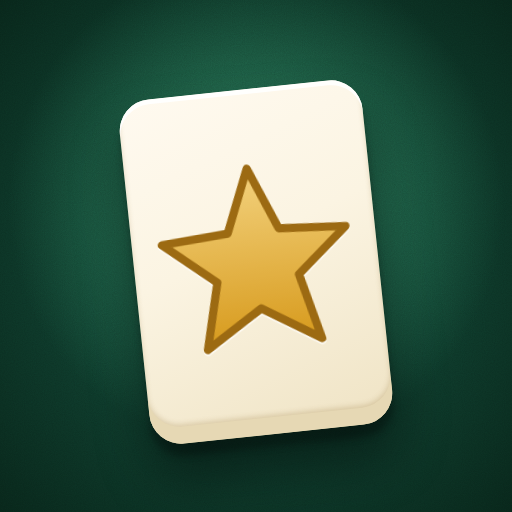
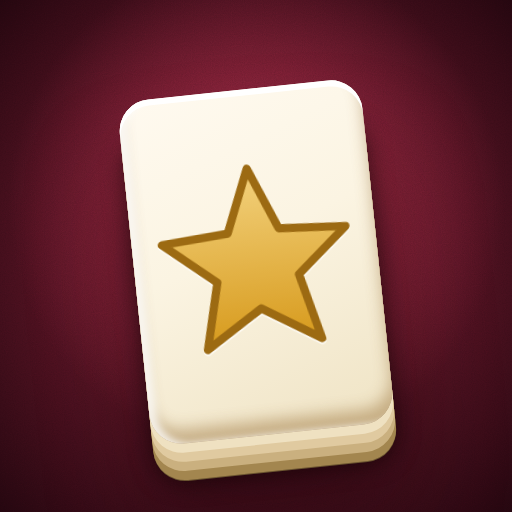
Mağaza görselleri: Osmanlı Konağı renkleri ve bakalit taş

diff --git a/docs/magaza/kaynak/ortak.css b/docs/magaza/kaynak/ortak.css
@@ -6,18 +6,20 @@
 @font-face { font-family: 'Nunito'; font-weight: 900; src: url(fonts/nunito-latin-900-normal.woff2) format('woff2'); unicode-range: U+0000-00FF, U+0131, U+0152-0153, U+02BB-02BC, U+02C6, U+02DA, U+02DC, U+2000-206F, U+20AC, U+2122, U+2191, U+2193, U+2212, U+2215, U+FEFF, U+FFFD; }
 @font-face { font-family: 'Nunito'; font-weight: 900; src: url(fonts/nunito-latin-ext-900-normal.woff2) format('woff2'); unicode-range: U+0100-02BA, U+02BD-02C5, U+02C7-02CC, U+02CE-02D7, U+02DD-02FF, U+1E00-1EFF, U+2020, U+20A0-20AB, U+20AD-20C0, U+2C60-2C7F, U+A720-A7FF; }
 
+@font-face { font-family: 'Oswald'; font-weight: 700; src: url(fonts/oswald-latin-700-normal.woff2) format('woff2'); }
+
 :root {
-  --cuha: #0f3d2e;
-  --cuha-acik: #1a5a43;
-  --cuha-koyu: #082419;
+  --cuha: #5c1526;
+  --cuha-acik: #8a2a3c;
+  --cuha-koyu: #22060e;
   --altin: #e8c26a;
   --altin-koyu: #b8923e;
   --krem: #fbf4e2;
   --krem-golge: #e6d8b4;
-  --kirmizi: #c8312b;
-  --sari: #e0a020;
-  --mavi: #1f5fbf;
-  --siyah: #1d1d1d;
+  --kirmizi: #b5122c;
+  --sari: #cf7400;
+  --mavi: #1446b8;
+  --siyah: #1a1a20;
   --ahsap: #6b3f1f;
 }
 
@@ -30,7 +32,7 @@ body { font-family: 'Nunito', system-ui, sans-serif; -webkit-font-smoothing: ant
 .cuha {
   position: absolute; inset: 0; overflow: hidden;
   background:
-    radial-gradient(ellipse 70% 80% at 62% 45%, rgba(46,130,95,.55), rgba(15,61,46,0) 70%),
+    radial-gradient(ellipse 70% 80% at 62% 45%, rgba(150,42,66,.55), rgba(92,21,38,0) 70%),
     radial-gradient(ellipse 120% 120% at 50% 50%, var(--cuha) 30%, var(--cuha-koyu) 100%);
 }
 /* İnce kumaş dokusu (SVG gürültü) */
@@ -46,24 +48,28 @@ body { font-family: 'Nunito', system-ui, sans-serif; -webkit-font-smoothing: ant
   width: var(--g); height: calc(var(--g) * 1.42);
   border-radius: calc(var(--g) * .13);
   background: linear-gradient(160deg, #fffaf0 0%, var(--krem) 45%, #efe3c4 100%);
+  --t: calc(var(--g) * .15);       /* kalın bakalit yan yüzü */
   box-shadow:
-    inset 0 calc(var(--g) * .02) 0 rgba(255,255,255,.9),
-    inset 0 calc(var(--g) * -.07) 0 var(--krem-golge),
-    inset 0 calc(var(--g) * -.08) calc(var(--g)*.02) rgba(150,120,60,.25),
-    0 calc(var(--g) * .05) calc(var(--g) * .03) rgba(0,0,0,.28),
-    0 calc(var(--g) * .14) calc(var(--g) * .22) rgba(0,0,0,.45);
+    inset 0 calc(var(--g) * .025) 0 #fff,
+    inset calc(var(--g) * .03) 0 calc(var(--g) * .03) rgba(255,255,255,.75),
+    inset 0 calc(var(--g) * -.06) calc(var(--g) * .06) rgba(140,98,38,.42),
+    0 calc(var(--t) * .25) 0 #efe1c1, 0 calc(var(--t) * .5) 0 #e0caa0,
+    0 calc(var(--t) * .75) 0 #cab07f, 0 var(--t) 0 #a3864f,
+    0 calc(var(--t) + 1px) 0 #6a5430,
+    0 calc(var(--t) + 2px) calc(var(--t) * .6) rgba(10,0,4,.6),
+    0 calc(var(--t) * 2.2) calc(var(--t) * 2.6) rgba(20,0,6,.5);
   display: flex; flex-direction: column; align-items: center; justify-content: flex-start;
-  padding-top: calc(var(--g) * .16);
+  padding-top: calc(var(--g) * .12);
 }
 .tas .rakam {
-  font-weight: 900; line-height: 1;
-  font-size: calc(var(--g) * .72);
-  letter-spacing: calc(var(--g) * -.03);
+  font-family: 'Oswald', sans-serif; font-weight: 700; line-height: 1;
+  font-size: calc(var(--g) * .74);
+  letter-spacing: 0;
   text-shadow: 0 calc(var(--g)*.012) 0 rgba(255,255,255,.7);
 }
 .tas .nokta {
   width: calc(var(--g) * .17); height: calc(var(--g) * .17); border-radius: 50%;
-  margin-top: calc(var(--g) * .07);
+  margin-top: calc(var(--g) * .13);
 }
 .tas.kirmizi { color: var(--kirmizi); } .tas.kirmizi .nokta { background: var(--kirmizi); }
 .tas.sari    { color: var(--sari); }    .tas.sari .nokta    { background: var(--sari); }

diff --git a/docs/magaza/kaynak/acilis.html b/docs/magaza/kaynak/acilis.html
@@ -1,0 +1,17 @@
+<!doctype html><html><head><meta charset="utf-8"><link rel="stylesheet" href="ortak.css">
+<style>
+ body{width:100vw;height:100vh;overflow:hidden}
+ .sahne{position:absolute;inset:0;display:flex;flex-direction:column;align-items:center;justify-content:center;gap:calc(var(--o)*.09)}
+ .tas{position:relative;--g:calc(var(--o)*.17);transform:rotate(-6deg)}
+ .yildiz{position:absolute;top:4%;right:4%;width:30%}
+ h1{font-weight:900;font-size:calc(var(--o)*.085);color:var(--krem);margin-top:calc(var(--o)*.05);letter-spacing:-.01em}
+ h1 b{color:var(--altin)}
+</style></head><body>
+<div class="cuha"></div>
+<div class="sahne">
+ <div class="tas kirmizi"><span class="rakam">1</span><span class="nokta"></span>
+  <svg class="yildiz" viewBox="0 0 100 100"><path d="M50 6 L62.5 36.5 L95 38.8 L70 59.8 L78 92 L50 74.5 L22 92 L30 59.8 L5 38.8 L37.5 36.5 Z" fill="#e6b24a" stroke="#9a6614" stroke-width="5" stroke-linejoin="round"/></svg></div>
+ <h1>Okey <b>Salonu</b></h1>
+</div>
+<script>const o=Math.min(innerWidth,innerHeight);document.documentElement.style.setProperty('--o',o+'px');</script>
+</body></html>

diff --git a/docs/magaza/kaynak/one-cikan-gorsel.html b/docs/magaza/kaynak/one-cikan-gorsel.html
@@ -27,7 +27,7 @@
   h1 span { color: var(--altin); }
   .cizgi { width: 120px; height: 5px; border-radius: 3px; margin: 20px 0 18px;
     background: linear-gradient(90deg, var(--altin), var(--altin-koyu)); }
-  .slogan { font-weight: 800; font-size: 31px; line-height: 1.2; color: #e9f2ec; text-shadow: 0 2px 10px rgba(0,0,0,.4); }
+  .slogan { font-weight: 800; font-size: 31px; line-height: 1.2; color: #f8ecd6; text-shadow: 0 2px 10px rgba(0,0,0,.4); }
 
   /* Taş yelpazesi */
   .yelpaze { position: absolute; left: 734px; top: 318px; width: 0; height: 0; z-index: 3; }

diff --git a/docs/magaza/kaynak/simge.html b/docs/magaza/kaynak/simge.html
@@ -9,7 +9,7 @@
   html, body { width: 512px; height: 512px; overflow: hidden; }
   .sahne { position: relative; width: 512px; height: 512px; overflow: hidden; }
   .cuha { background:
-    radial-gradient(circle at 50% 40%, rgba(52,140,102,.75), rgba(15,61,46,0) 62%),
+    radial-gradient(circle at 50% 40%, rgba(170,48,74,.75), rgba(92,21,38,0) 62%),
     radial-gradient(circle at 50% 50%, var(--cuha) 40%, var(--cuha-koyu) 100%); }
   .tas { --g: 244px; left: calc(256px - var(--g)/2); top: calc(262px - var(--g)*.71);
     transform: rotate(-6deg); }

diff --git a/docs/magaza/README.md b/docs/magaza/README.md
@@ -28,7 +28,7 @@ bash docs/magaza/kaynak/uret.sh
   Taşın tüm ölçüleri `--g` (genişlik) değişkeninden türetilir.
 - `one-cikan-gorsel.html` – başlık, slogan ve taş yelpazesi (kırmızı 11-12-13 + yıldızlı okey).
   Önemli içerik kenarlardan en az ~70 px içeride tutulur; üst/alt ahşap kenar yalnızca süstür.
-- `simge.html` – yeşil çuha üzerinde altın yıldızlı okey taşı (öne çıkan görseldekiyle aynı stil). Köşeler bilerek yuvarlatılmaz; Play maskeyi kendisi uygular.
+- `simge.html` – bordo kadife çuha üzerinde altın yıldızlı okey taşı (öne çıkan görseldekiyle aynı stil). Köşeler bilerek yuvarlatılmaz; Play maskeyi kendisi uygular.
 - `uret.cjs` / `uret.sh` – üretim betiği.
 - `fonts/` – Nunito (700/800/900, latin + latin-ext; @fontsource/nunito 5.3.0'dan), lisans: `fonts/OFL.txt` (SIL OFL 1.1).
 
